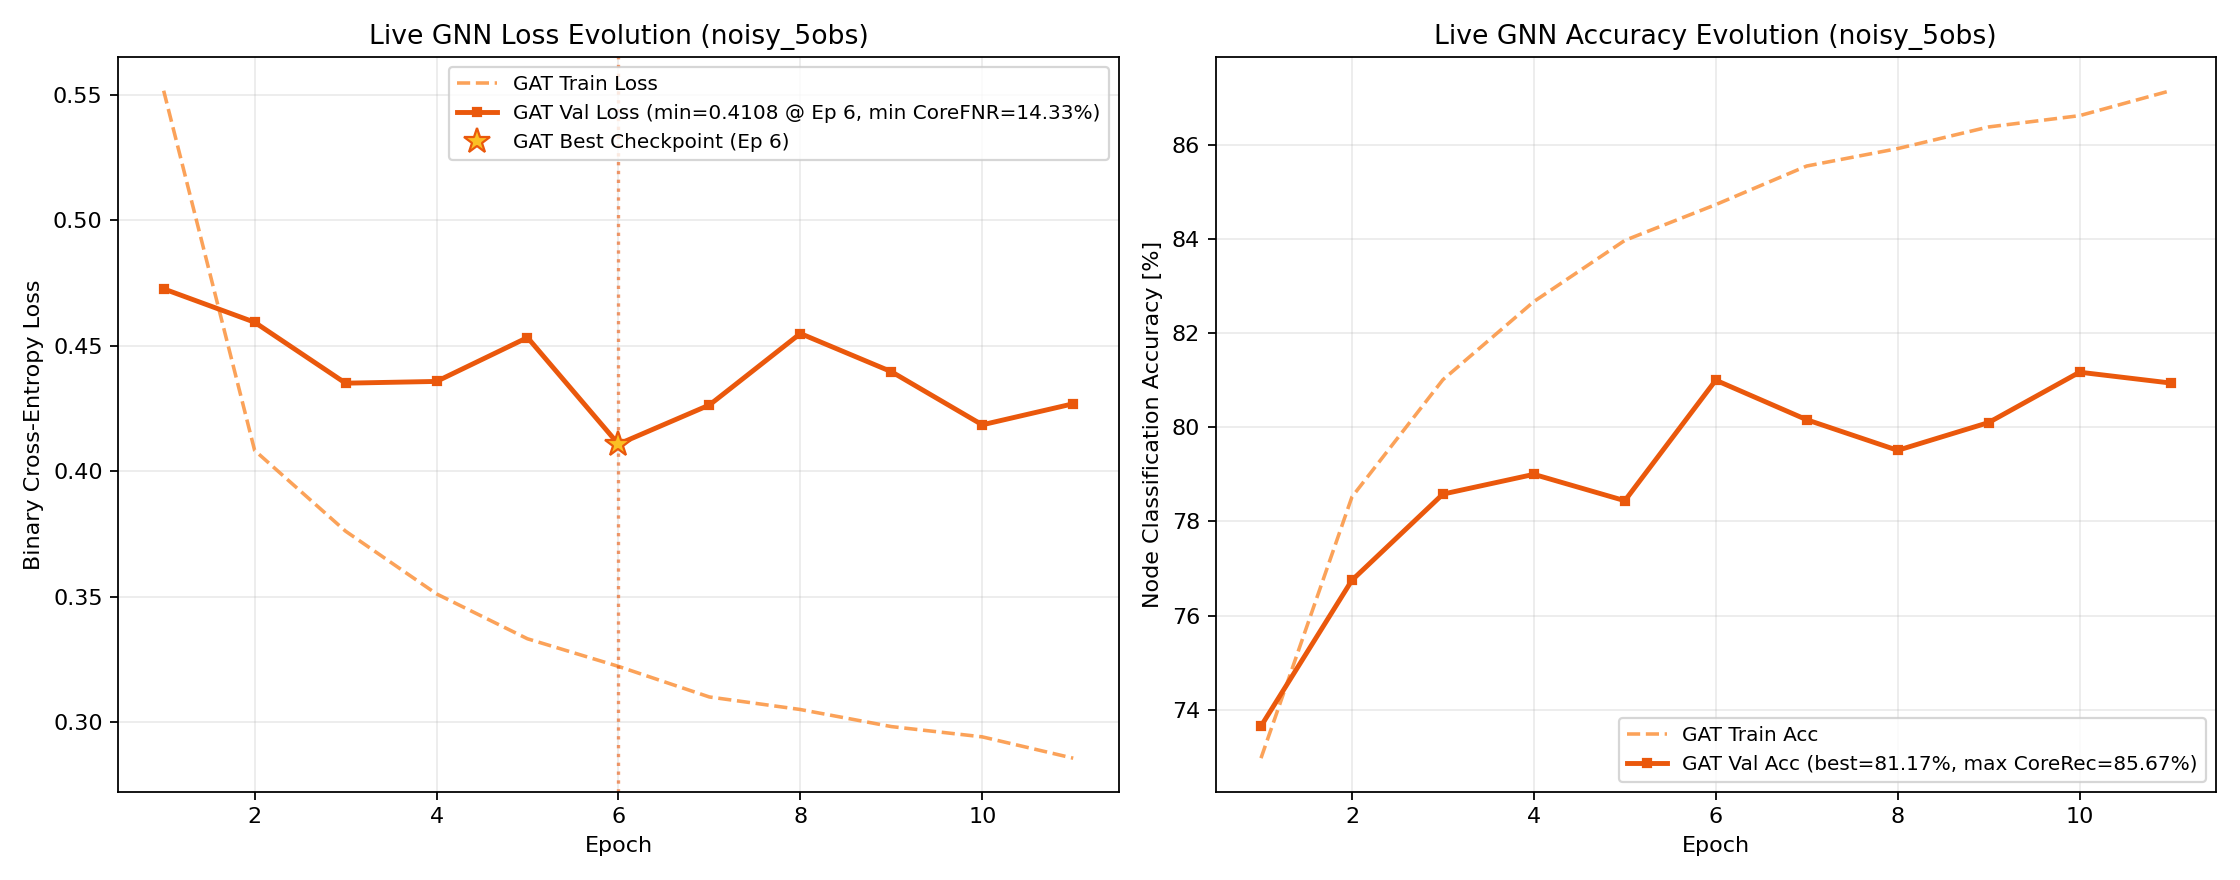
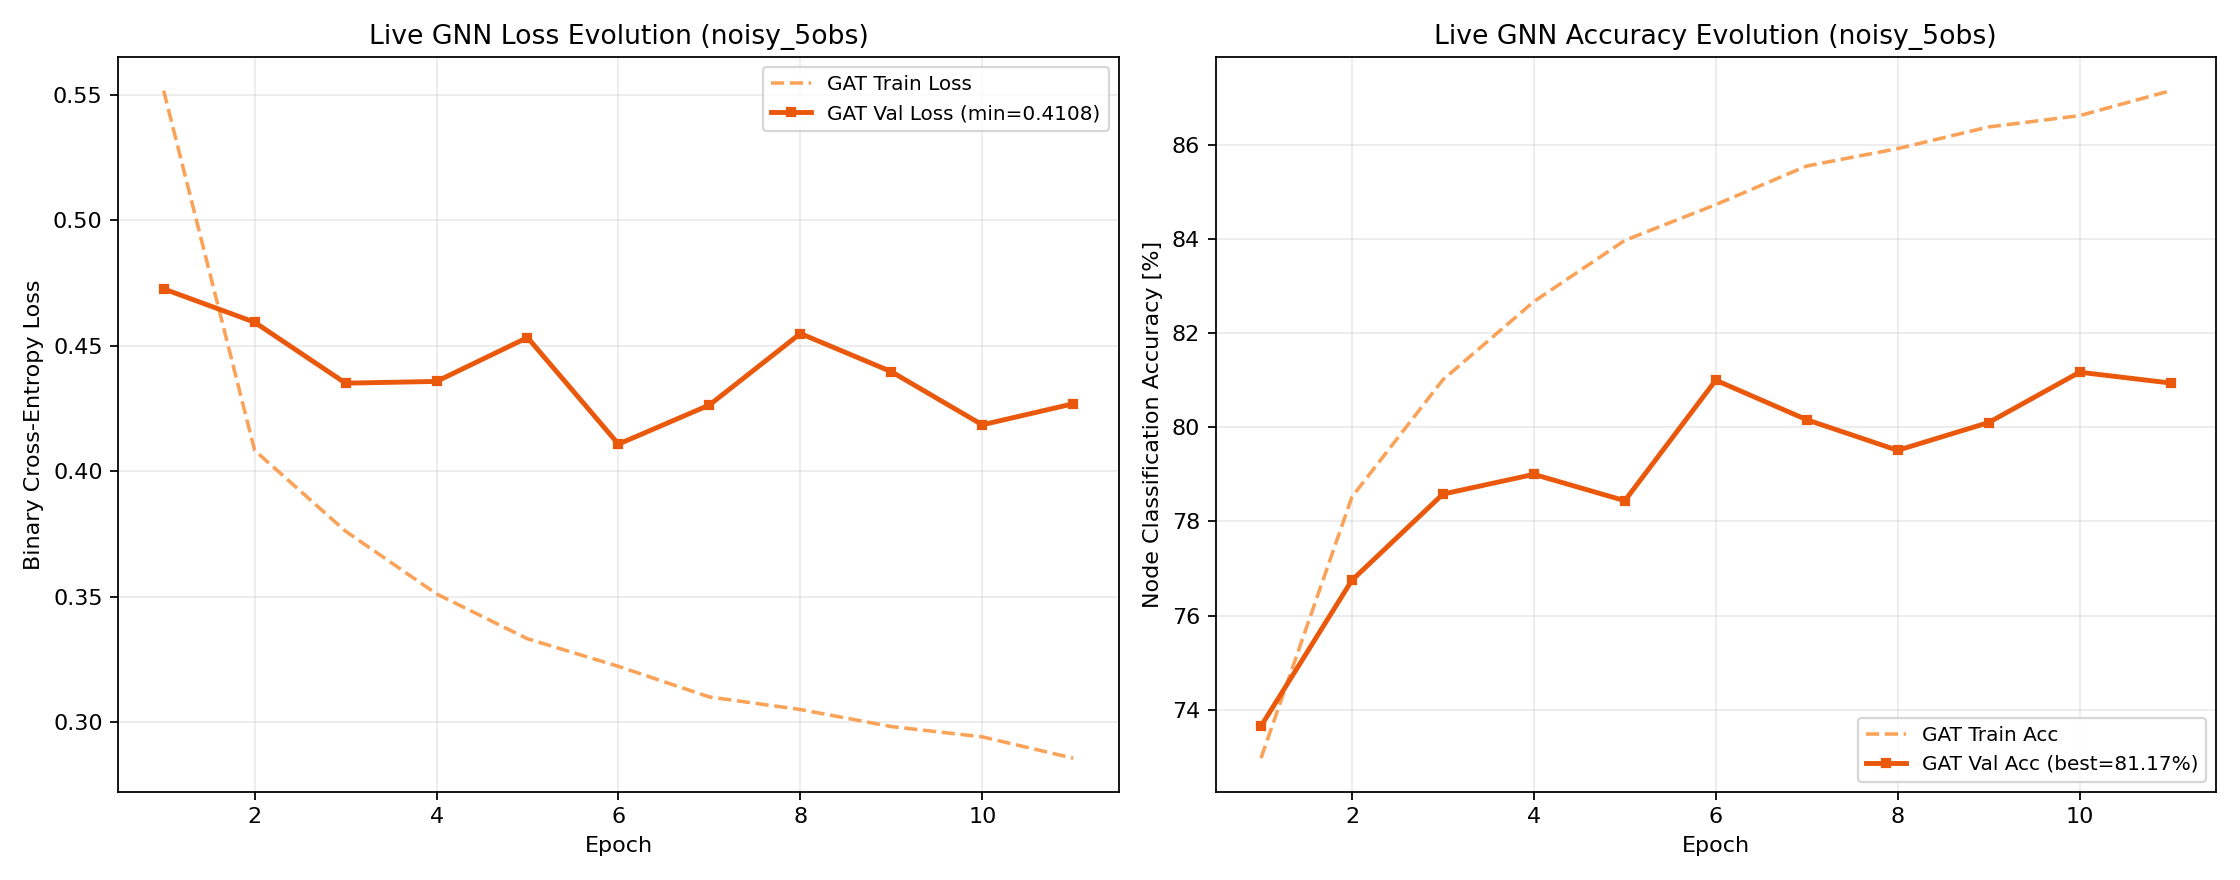
Update Study 2 live status and figures (2026-11-14 09:52)

Changed region(s): [[0.1875, 0.0614, 0.5, 0.1841], [0.7188, 0.7977, 1.0, 0.8898], [0.25, 0.4909, 0.2812, 0.5216]]

diff --git a/LIVE_STATUS.md b/LIVE_STATUS.md
@@ -1,17 +1,16 @@
 # Live Pipeline Status on Jed
 
 ```text
-[2026-11-14 09:52:53] Study 2 Pipeline Status on Jed
+[2026-11-14 09:52:57] Study 2 Pipeline Status on Jed
 - Step 1 (Plummer ICs): 81 / 81 ready
 - Step 2 (SWIFT Runs): 81 / 81 completed (101 snapshots)
 - Step 3 (Observables): Labels=81/81 | Clean=81/81 | GaiaNoisy=81/81
 - Step 4 (5D Graphs): Clean=81/81 | GaiaNoisy=81/81
 - Step 5/6 Live GNN Training Progress:
-  * clean_5obs/training_metrics_gat_clean.log: Ep 045 | Train 0.1338 (94.72%) | Val 0.2092 (91.96%, Best=91.99%) | CoreFNR: 11.06% (min=8.41%) | Test=91.43%
+  * clean_5obs/training_metrics_gat_clean.log: Ep 045 | Train 0.1338 (94.72%) | Val 0.2092 (91.96%, Best=91.99%) | Test=91.43%
   * clean_5obs/training_metrics_gcn_clean.log: Ep 025 | Train 0.1136 (95.42%) | Val 0.1820 (92.33%, Best=92.33%) | Test=92.17%
   * legacy/clean_5obs_static_5rot/training_metrics_gcn_clean.log: Ep 025 | Train 0.1136 (95.42%) | Val 0.1820 (92.33%, Best=92.33%) | Test=92.17%
-  * noisy_5obs/training_metrics_gat_noisy.log: Ep 011 | Train 0.2856 (87.15%) | Val 0.4269 (80.94%, Best=81.17%) | CoreFNR: 19.68% (min=14.33%) | Test=In progress
-- Saved Model Checkpoints (.pth): 9 mirrored in GNN-jed/trained_models/study2/weights/
+  * noisy_5obs/training_metrics_gat_noisy.log: Ep 011 | Train 0.2856 (87.15%) | Val 0.4269 (80.94%, Best=81.17%) | Test=In progress
 
 SLURM Queue:
 JOBID  PARTITION                   NAME   ST       TIME  NODES NODELIST(REASON)
@@ -21,31 +20,17 @@ JOBID  PARTITION                   NAME   ST       TIME  NODES NODELIST(REASON)
 41146835_[0-4%   academic      Study2_Step6_4Obs   PD       0:00      2 (Dependency)
       41185010   academic Study2V2_Step4_BuildGr   PD       0:00      1 (Dependency)
 41185009_[0-80   academic Study2V2_Step3_Extract   PD       0:00      1 (Dependency)
-      41146834   academic   Study2_Step5_Train81    R 1-19:08:13      2 jst[317,320]
+      41146834   academic   Study2_Step5_Train81    R 1-19:08:38      2 jst[317,320]
 ```
 
 ## Live Neural Network Training Metrics
 
-| Experiment | Architecture | Latest Epoch | Train Loss | Train Acc | Val Loss | Val Acc | Best Val Acc | Core FNR | Test Acc | Test F1 |
-| :--- | :---: | :---: | :---: | :---: | :---: | :---: | :---: | :---: | :---: | :---: |
-| `clean_5obs` | **GAT** | 45 | 0.1338 | 94.72% | 0.2092 | 91.96% | **91.99%** | 9.22% (val: 8.41%) | **91.43%** | 0.8807 |
-| `clean_5obs` | **GCN** | 25 | 0.1136 | 95.42% | 0.1820 | 92.33% | **92.33%** | - | **92.17%** | 0.8886 |
-| `clean_5obs_static_5rot` | **GCN** | 25 | 0.1136 | 95.42% | 0.1820 | 92.33% | **92.33%** | - | **92.17%** | 0.8886 |
-| `noisy_5obs` | **GAT** | 11 | 0.2856 | 87.15% | 0.4269 | 80.94% | **81.17%** | 14.33% (val min) | **In progress** | - |
-
-## Saved Model Weights (`.pth` Checkpoints)
-
-| Checkpoint | Size | Experiment Path | Central Archive Mirror |
-| :--- | :---: | :--- | :--- |
-| `best_gat_clean.pth` | 361.2 KB | `GNN-jed/trained_models/study2/clean_5obs/best_gat_clean.pth` | `GNN-jed/trained_models/study2/weights/best_gat_clean.pth` |
-| `best_gat_clean_ep18_backup.pth` | 361.2 KB | `GNN-jed/trained_models/study2/clean_5obs/best_gat_clean_ep18_backup.pth` | `GNN-jed/trained_models/study2/weights/best_gat_clean_ep18_backup.pth` |
-| `best_gcn_clean.pth` | 120.0 KB | `GNN-jed/trained_models/study2/clean_5obs/best_gcn_clean.pth` | `GNN-jed/trained_models/study2/weights/best_gcn_clean.pth` |
-| `best_gat_clean_ep18_backup.pth` | 361.2 KB | `GNN-jed/trained_models/study2/legacy/clean_5obs_static_5rot/best_gat_clean_ep18_backup.pth` | `GNN-jed/trained_models/study2/weights/best_gat_clean_ep18_backup.pth` |
-| `best_gcn_clean.pth` | 120.0 KB | `GNN-jed/trained_models/study2/legacy/clean_5obs_static_5rot/best_gcn_clean.pth` | `GNN-jed/trained_models/study2/weights/best_gcn_clean.pth` |
-| `best_gat_clean.pth` | 361.2 KB | `GNN-jed/trained_models/study2/legacy/weights/best_gat_clean.pth` | `GNN-jed/trained_models/study2/weights/best_gat_clean.pth` |
-| `best_gat_clean_ep18_backup.pth` | 361.2 KB | `GNN-jed/trained_models/study2/legacy/weights/best_gat_clean_ep18_backup.pth` | `GNN-jed/trained_models/study2/weights/best_gat_clean_ep18_backup.pth` |
-| `best_gcn_clean.pth` | 120.0 KB | `GNN-jed/trained_models/study2/legacy/weights/best_gcn_clean.pth` | `GNN-jed/trained_models/study2/weights/best_gcn_clean.pth` |
-| `best_gat_noisy.pth` | 361.2 KB | `GNN-jed/trained_models/study2/noisy_5obs/best_gat_noisy.pth` | `GNN-jed/trained_models/study2/weights/best_gat_noisy.pth` |
+| Experiment | Architecture | Latest Epoch | Train Loss | Train Acc | Val Loss | Val Acc | Best Val Acc | Test Acc | Test F1 |
+| :--- | :---: | :---: | :---: | :---: | :---: | :---: | :---: | :---: | :---: |
+| `clean_5obs` | **GAT** | 45 | 0.1338 | 94.72% | 0.2092 | 91.96% | **91.99%** | **91.43%** | 0.8807 |
+| `clean_5obs` | **GCN** | 25 | 0.1136 | 95.42% | 0.1820 | 92.33% | **92.33%** | **92.17%** | 0.8886 |
+| `clean_5obs_static_5rot` | **GCN** | 25 | 0.1136 | 95.42% | 0.1820 | 92.33% | **92.33%** | **92.17%** | 0.8886 |
+| `noisy_5obs` | **GAT** | 11 | 0.2856 | 87.15% | 0.4269 | 80.94% | **81.17%** | **In progress** | - |
 
 ## Real-Time GNN Learning Curves (Loss & Accuracy Evolution)
 
